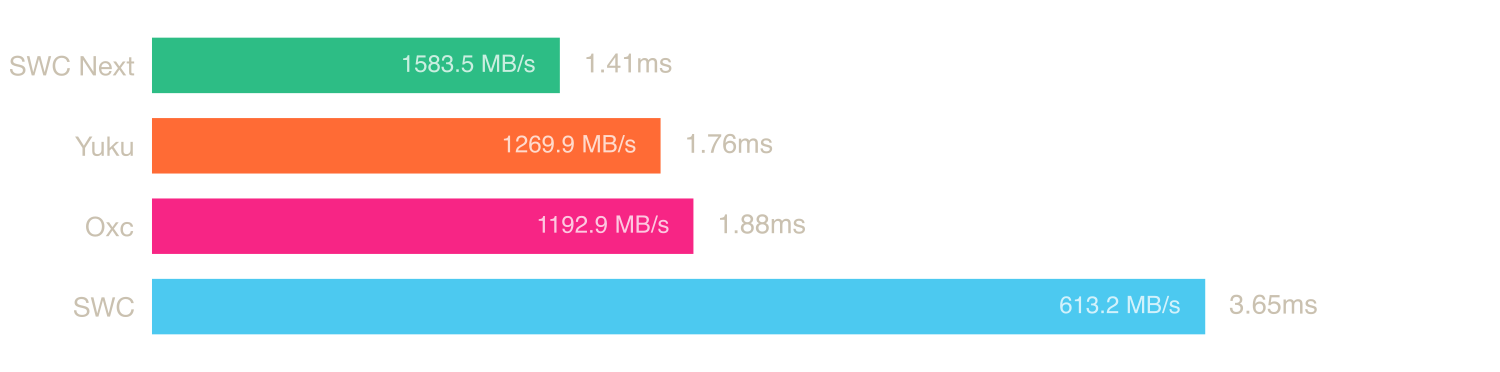
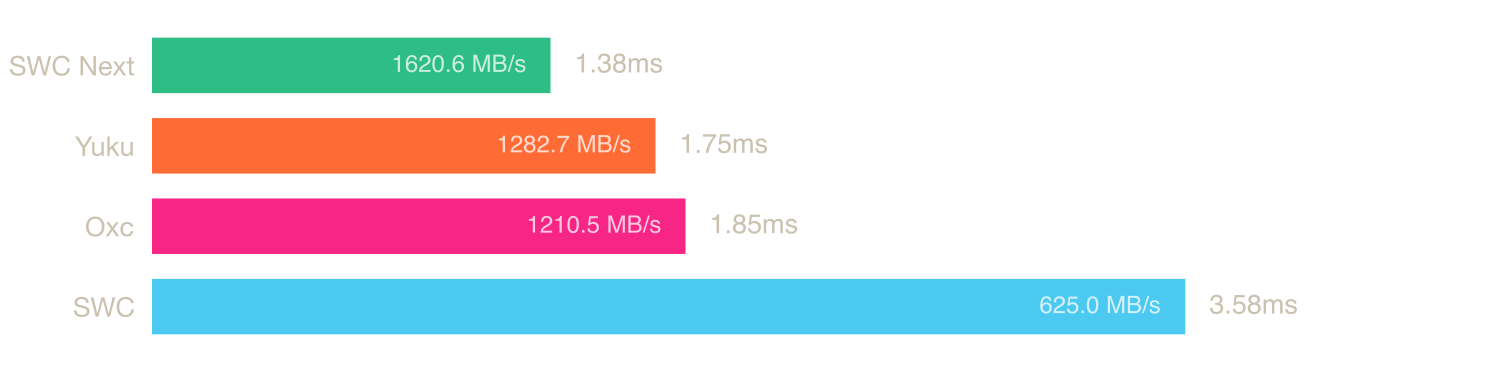
chore(deps): upgrade to swc-next 0.3.1

diff --git a/scripts/generate-readme.ts b/scripts/generate-readme.ts
@@ -402,7 +402,7 @@ function generateRunSection(): string {
 
 - [Bun](https://bun.sh/) - JavaScript runtime and package manager
 - [Rust](https://www.rust-lang.org/tools/install) - For building Rust-based parsers
-- [Zig](https://ziglang.org/download/) 0.17.0 - Required by Yuku 0.19.0
+- [Zig](https://ziglang.org/download/) ${metadata.toolchains.zig} - Required by Yuku ${metadata.yukuVersion}
 
 ### Steps
 
@@ -457,6 +457,8 @@ Parsing is timed in-process to isolate it from process startup, dynamic linking,
 The source is read once, then each parser runs 50 warmup iterations followed by 300 timed iterations. A monotonic clock wraps parser construction and parsing (plus the semantic pass for the semantic variants). Arena construction and teardown happen outside the timed region; allocations performed during parsing remain timed. The result passes through an optimization barrier so the work cannot be elided. Reported figures are the median, minimum, and 99th percentile of the timed runs.
 
 SWC Next uses \`NoTokenParserConfig\`, \`Lang::from_path\` (including declaration-file mode for \`.d.ts\`), module mode, and the default comment and parenthesis handling. Its parser and semantic diagnostics are checked outside the timed region. Rust arena-based parsers create a fresh arena per iteration; Yuku retains arena capacity between iterations. Each suite keeps its parser's existing AST representation and defaults, so these are end-to-end parser API timings rather than identical AST workloads. All suites are rerun locally in sequence; historical timings are not mixed into the tables.
+
+SWC retains the historical TypeScript module parsing options for declaration files. On this fixture, \`lib.dom.d.ts\` returns the complete AST (2,805 top-level items) with two recoverable \`EvalAndArgumentsInStrict\` diagnostics for \`...arguments\` parameters. Its timing includes this recovery work. The input, parser version, and harness match the baseline; this is an existing mode limitation, and syntax checks remain enabled.
 
 SWC Next is built as a separate native binary in \`rust-next/\`. The Rust binaries share the same measurement helper, release profile, and global allocator, and each has a committed Cargo lockfile.
 

diff --git a/README.md b/README.md
@@ -10,14 +10,14 @@ Benchmarks for ECMAScript parsers compiled to native binaries (Zig, Rust), measu
 | CPU | Apple M5 Max |
 | Cores | 18 |
 | Memory | 64 GB |
-| Run started (UTC) | 2026-10-16T07:51:57.643Z |
+| Run started (UTC) | 2026-10-19T11:34:08.628Z |
 | Rust | rustc 1.98.0 (88d9e12ae 2026-08-18) |
 | Zig | 0.17.0 |
 | Bun | 1.4.0 |
 
-Oxc: `0.154.0`; SWC: `46.1.1`; SWC Next: `0.3.0` from [crates.io](https://crates.io/crates/swc_next_ecma_parser/0.3.0).
+Oxc: `0.154.0`; SWC: `46.1.1`; SWC Next: `0.3.1` from [crates.io](https://crates.io/crates/swc_next_ecma_parser/0.3.1).
 
-Yuku `0.19.0` source: [pinned revision](https://github.com/yuku-toolchain/yuku/commit/f8496bd8dfd52ae528ade3bfe4c1ea57d1bde635). Fixture source: [`e25ab06730f743838b2c693d2126ea0162a661c6`](https://github.com/yuku-toolchain/parser-benchmark-files/commit/e25ab06730f743838b2c693d2126ea0162a661c6). Toolchain versions, input sizes and SHA-256 hashes, and binary hashes are saved in [result/metadata.json](result/metadata.json).
+Yuku `0.20.1` source: [pinned revision](https://github.com/yuku-toolchain/yuku/commit/e68066ff291d2fe43c727054f03636f4a633596b). Fixture source: [`e25ab06730f743838b2c693d2126ea0162a661c6`](https://github.com/yuku-toolchain/parser-benchmark-files/commit/e25ab06730f743838b2c693d2126ea0162a661c6). Toolchain versions, input sizes and SHA-256 hashes, and binary hashes are saved in [result/metadata.json](result/metadata.json).
 
 ## Parsers
 
@@ -55,10 +55,10 @@ The next-generation SWC parser, built from its published crates.io release.
 
 | Parser | Median | Min | p99 | Relative |
 |--------|--------|-----|-----|----------|
-| SWC Next | 12.90 ms | 12.43 ms | 15.75 ms | 1.00× |
-| Yuku | 13.88 ms | 13.60 ms | 14.46 ms | 1.08× |
-| Oxc | 20.88 ms | 20.28 ms | 42.06 ms | 1.62× |
-| SWC | 30.06 ms | 29.13 ms | 40.90 ms | 2.33× |
+| SWC Next | 12.51 ms | 12.22 ms | 13.70 ms | 1.00× |
+| Yuku | 13.91 ms | 13.67 ms | 15.32 ms | 1.11× |
+| Oxc | 20.33 ms | 19.99 ms | 22.10 ms | 1.63× |
+| SWC | 29.04 ms | 28.54 ms | 31.27 ms | 2.32× |
 
 ### [checker.ts](https://raw.githubusercontent.com/yuku-toolchain/parser-benchmark-files/e25ab06730f743838b2c693d2126ea0162a661c6/checker.ts)
 
@@ -68,10 +68,10 @@ The next-generation SWC parser, built from its published crates.io release.
 
 | Parser | Median | Min | p99 | Relative |
 |--------|--------|-----|-----|----------|
-| SWC Next | 4.65 ms | 4.50 ms | 5.22 ms | 1.00× |
-| Yuku | 4.92 ms | 4.67 ms | 6.90 ms | 1.06× |
-| Oxc | 6.54 ms | 6.34 ms | 7.06 ms | 1.41× |
-| SWC | 9.93 ms | 9.52 ms | 11.00 ms | 2.13× |
+| SWC Next | 4.51 ms | 4.28 ms | 5.61 ms | 1.00× |
+| Yuku | 4.81 ms | 4.55 ms | 5.50 ms | 1.07× |
+| Oxc | 6.42 ms | 6.22 ms | 6.72 ms | 1.42× |
+| SWC | 9.58 ms | 9.37 ms | 9.87 ms | 2.12× |
 
 ### [lib.dom.d.ts](https://raw.githubusercontent.com/yuku-toolchain/parser-benchmark-files/e25ab06730f743838b2c693d2126ea0162a661c6/lib.dom.d.ts)
 
@@ -81,10 +81,10 @@ The next-generation SWC parser, built from its published crates.io release.
 
 | Parser | Median | Min | p99 | Relative |
 |--------|--------|-----|-----|----------|
-| SWC Next | 1.41 ms | 1.37 ms | 1.55 ms | 1.00× |
-| Yuku | 1.76 ms | 1.72 ms | 2.36 ms | 1.25× |
-| Oxc | 1.88 ms | 1.83 ms | 2.06 ms | 1.33× |
-| SWC | 3.65 ms | 3.51 ms | 5.19 ms | 2.58× |
+| SWC Next | 1.38 ms | 1.31 ms | 1.45 ms | 1.00× |
+| Yuku | 1.75 ms | 1.66 ms | 1.80 ms | 1.26× |
+| Oxc | 1.85 ms | 1.75 ms | 1.92 ms | 1.34× |
+| SWC | 3.58 ms | 3.43 ms | 3.70 ms | 2.59× |
 
 ### [react.js](https://raw.githubusercontent.com/yuku-toolchain/parser-benchmark-files/e25ab06730f743838b2c693d2126ea0162a661c6/react.js)
 
@@ -94,10 +94,10 @@ The next-generation SWC parser, built from its published crates.io release.
 
 | Parser | Median | Min | p99 | Relative |
 |--------|--------|-----|-----|----------|
-| SWC Next | 0.06 ms | 0.06 ms | 0.12 ms | 1.00× |
-| Yuku | 0.08 ms | 0.08 ms | 0.17 ms | 1.31× |
-| Oxc | 0.12 ms | 0.12 ms | 0.18 ms | 1.93× |
-| SWC | 0.19 ms | 0.18 ms | 0.27 ms | 3.05× |
+| SWC Next | 0.06 ms | 0.06 ms | 0.11 ms | 1.00× |
+| Yuku | 0.08 ms | 0.08 ms | 0.12 ms | 1.32× |
+| Oxc | 0.12 ms | 0.12 ms | 0.18 ms | 1.97× |
+| SWC | 0.18 ms | 0.17 ms | 0.26 ms | 2.98× |
 
 ## Semantic
 
@@ -113,9 +113,9 @@ The benchmarks below measure parsing followed by this additional pass, which bui
 
 | Parser | Median | Min | p99 | Relative |
 |--------|--------|-----|-----|----------|
-| SWC Next + Semantic | 27.24 ms | 26.09 ms | 36.83 ms | 1.00× |
-| Yuku + Semantic | 34.37 ms | 33.61 ms | 39.43 ms | 1.26× |
-| Oxc + Semantic | 36.92 ms | 36.01 ms | 46.77 ms | 1.36× |
+| SWC Next + Semantic | 25.91 ms | 25.40 ms | 31.17 ms | 1.00× |
+| Yuku + Semantic | 33.73 ms | 33.32 ms | 35.84 ms | 1.30× |
+| Oxc + Semantic | 36.20 ms | 35.69 ms | 37.45 ms | 1.40× |
 
 ### [checker.ts](https://raw.githubusercontent.com/yuku-toolchain/parser-benchmark-files/e25ab06730f743838b2c693d2126ea0162a661c6/checker.ts)
 
@@ -123,9 +123,9 @@ The benchmarks below measure parsing followed by this additional pass, which bui
 
 | Parser | Median | Min | p99 | Relative |
 |--------|--------|-----|-----|----------|
-| Yuku + Semantic | 14.22 ms | 12.59 ms | 19.78 ms | 1.00× |
-| Oxc + Semantic | 14.47 ms | 12.25 ms | 16.69 ms | 1.02× |
-| SWC Next + Semantic | 24.52 ms | 23.95 ms | 30.92 ms | 1.72× |
+| SWC Next + Semantic | 9.70 ms | 9.49 ms | 10.16 ms | 1.00× |
+| Oxc + Semantic | 12.26 ms | 11.93 ms | 13.22 ms | 1.26× |
+| Yuku + Semantic | 12.48 ms | 12.15 ms | 15.32 ms | 1.29× |
 
 ### [lib.dom.d.ts](https://raw.githubusercontent.com/yuku-toolchain/parser-benchmark-files/e25ab06730f743838b2c693d2126ea0162a661c6/lib.dom.d.ts)
 
@@ -133,9 +133,9 @@ The benchmarks below measure parsing followed by this additional pass, which bui
 
 | Parser | Median | Min | p99 | Relative |
 |--------|--------|-----|-----|----------|
-| SWC Next + Semantic | 2.66 ms | 2.57 ms | 3.14 ms | 1.00× |
-| Oxc + Semantic | 3.17 ms | 3.05 ms | 3.67 ms | 1.19× |
-| Yuku + Semantic | 3.42 ms | 3.34 ms | 4.20 ms | 1.29× |
+| SWC Next + Semantic | 2.60 ms | 2.50 ms | 2.92 ms | 1.00× |
+| Oxc + Semantic | 3.08 ms | 2.94 ms | 3.15 ms | 1.18× |
+| Yuku + Semantic | 3.36 ms | 3.24 ms | 3.49 ms | 1.29× |
 
 ### [react.js](https://raw.githubusercontent.com/yuku-toolchain/parser-benchmark-files/e25ab06730f743838b2c693d2126ea0162a661c6/react.js)
 
@@ -143,9 +143,9 @@ The benchmarks below measure parsing followed by this additional pass, which bui
 
 | Parser | Median | Min | p99 | Relative |
 |--------|--------|-----|-----|----------|
-| SWC Next + Semantic | 0.13 ms | 0.13 ms | 0.22 ms | 1.00× |
-| Oxc + Semantic | 0.22 ms | 0.21 ms | 0.31 ms | 1.65× |
-| Yuku + Semantic | 0.25 ms | 0.21 ms | 0.37 ms | 1.93× |
+| SWC Next + Semantic | 0.13 ms | 0.12 ms | 0.25 ms | 1.00× |
+| Yuku + Semantic | 0.20 ms | 0.19 ms | 0.28 ms | 1.56× |
+| Oxc + Semantic | 0.22 ms | 0.20 ms | 0.27 ms | 1.65× |
 
 ## Run Benchmarks
 
@@ -153,7 +153,7 @@ The benchmarks below measure parsing followed by this additional pass, which bui
 
 - [Bun](https://bun.sh/) - JavaScript runtime and package manager
 - [Rust](https://www.rust-lang.org/tools/install) - For building Rust-based parsers
-- [Zig](https://ziglang.org/download/) 0.17.0 - Required by Yuku 0.19.0
+- [Zig](https://ziglang.org/download/) 0.17.0 - Required by Yuku 0.20.1
 
 ### Steps
 
@@ -206,6 +206,8 @@ Parsing is timed in-process to isolate it from process startup, dynamic linking,
 The source is read once, then each parser runs 50 warmup iterations followed by 300 timed iterations. A monotonic clock wraps parser construction and parsing (plus the semantic pass for the semantic variants). Arena construction and teardown happen outside the timed region; allocations performed during parsing remain timed. The result passes through an optimization barrier so the work cannot be elided. Reported figures are the median, minimum, and 99th percentile of the timed runs.
 
 SWC Next uses `NoTokenParserConfig`, `Lang::from_path` (including declaration-file mode for `.d.ts`), module mode, and the default comment and parenthesis handling. Its parser and semantic diagnostics are checked outside the timed region. Rust arena-based parsers create a fresh arena per iteration; Yuku retains arena capacity between iterations. Each suite keeps its parser's existing AST representation and defaults, so these are end-to-end parser API timings rather than identical AST workloads. All suites are rerun locally in sequence; historical timings are not mixed into the tables.
+
+SWC retains the historical TypeScript module parsing options for declaration files. On this fixture, `lib.dom.d.ts` returns the complete AST (2,805 top-level items) with two recoverable `EvalAndArgumentsInStrict` diagnostics for `...arguments` parameters. Its timing includes this recovery work. The input, parser version, and harness match the baseline; this is an existing mode limitation, and syntax checks remain enabled.
 
 SWC Next is built as a separate native binary in `rust-next/`. The Rust binaries share the same measurement helper, release profile, and global allocator, and each has a committed Cargo lockfile.
 
